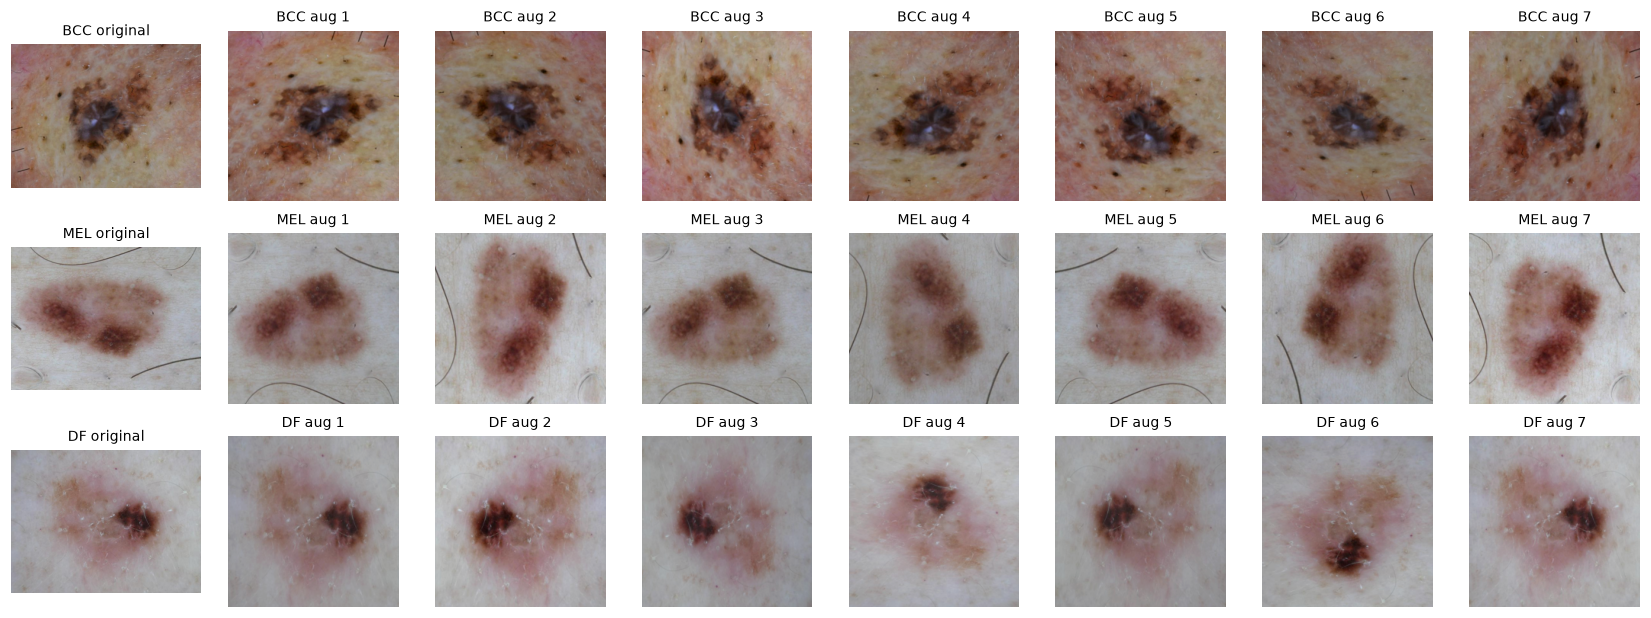
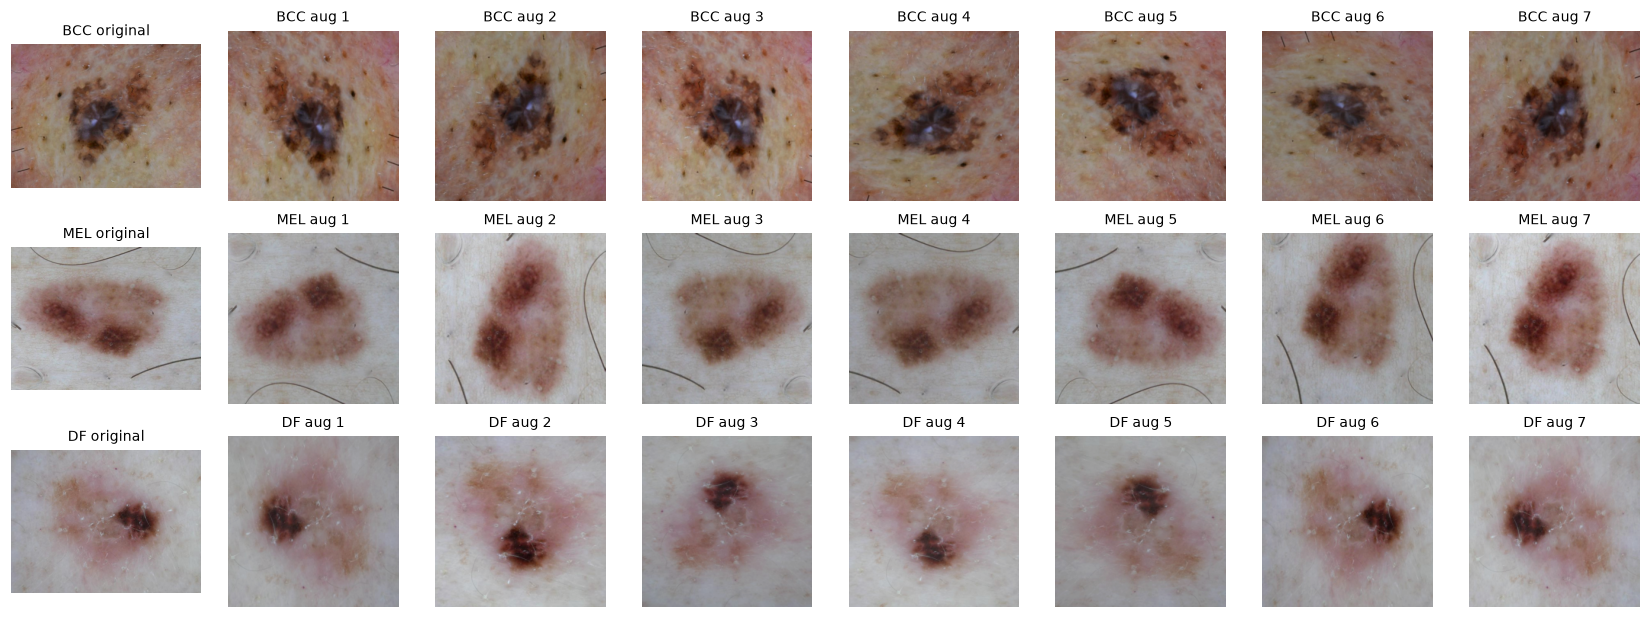
check_pipeline: seed Python random so the augmentation figure is reproducible

diff --git a/scripts/check_pipeline.py b/scripts/check_pipeline.py
@@ -5,6 +5,7 @@ Writes: outputs/figures/augmentations.png   3 classes x (1 original + 7 augmente
         outputs/figures/batch_check.png     16 transformed train images with their labels
         outputs/pipeline_check.txt          sanity prints (shapes, dtype, ranges, label histogram, epoch time)
 """
+import random
 import sys
 import time
 from collections import Counter
@@ -39,6 +40,7 @@ def augmentation_figure():
     derm = train[train.image_type == config.DERM]
     aug = T.Compose(train_transform_steps()[:-2])   # all augmentations, without ToTensor/Normalize
     torch.manual_seed(config.SEED)
+    random.seed(config.SEED)
     images, titles = [], []
     for dx in ["BCC", "MEL", "DF"]:
         isic_id = derm[derm.dx == dx].isic_id.iloc[0]
